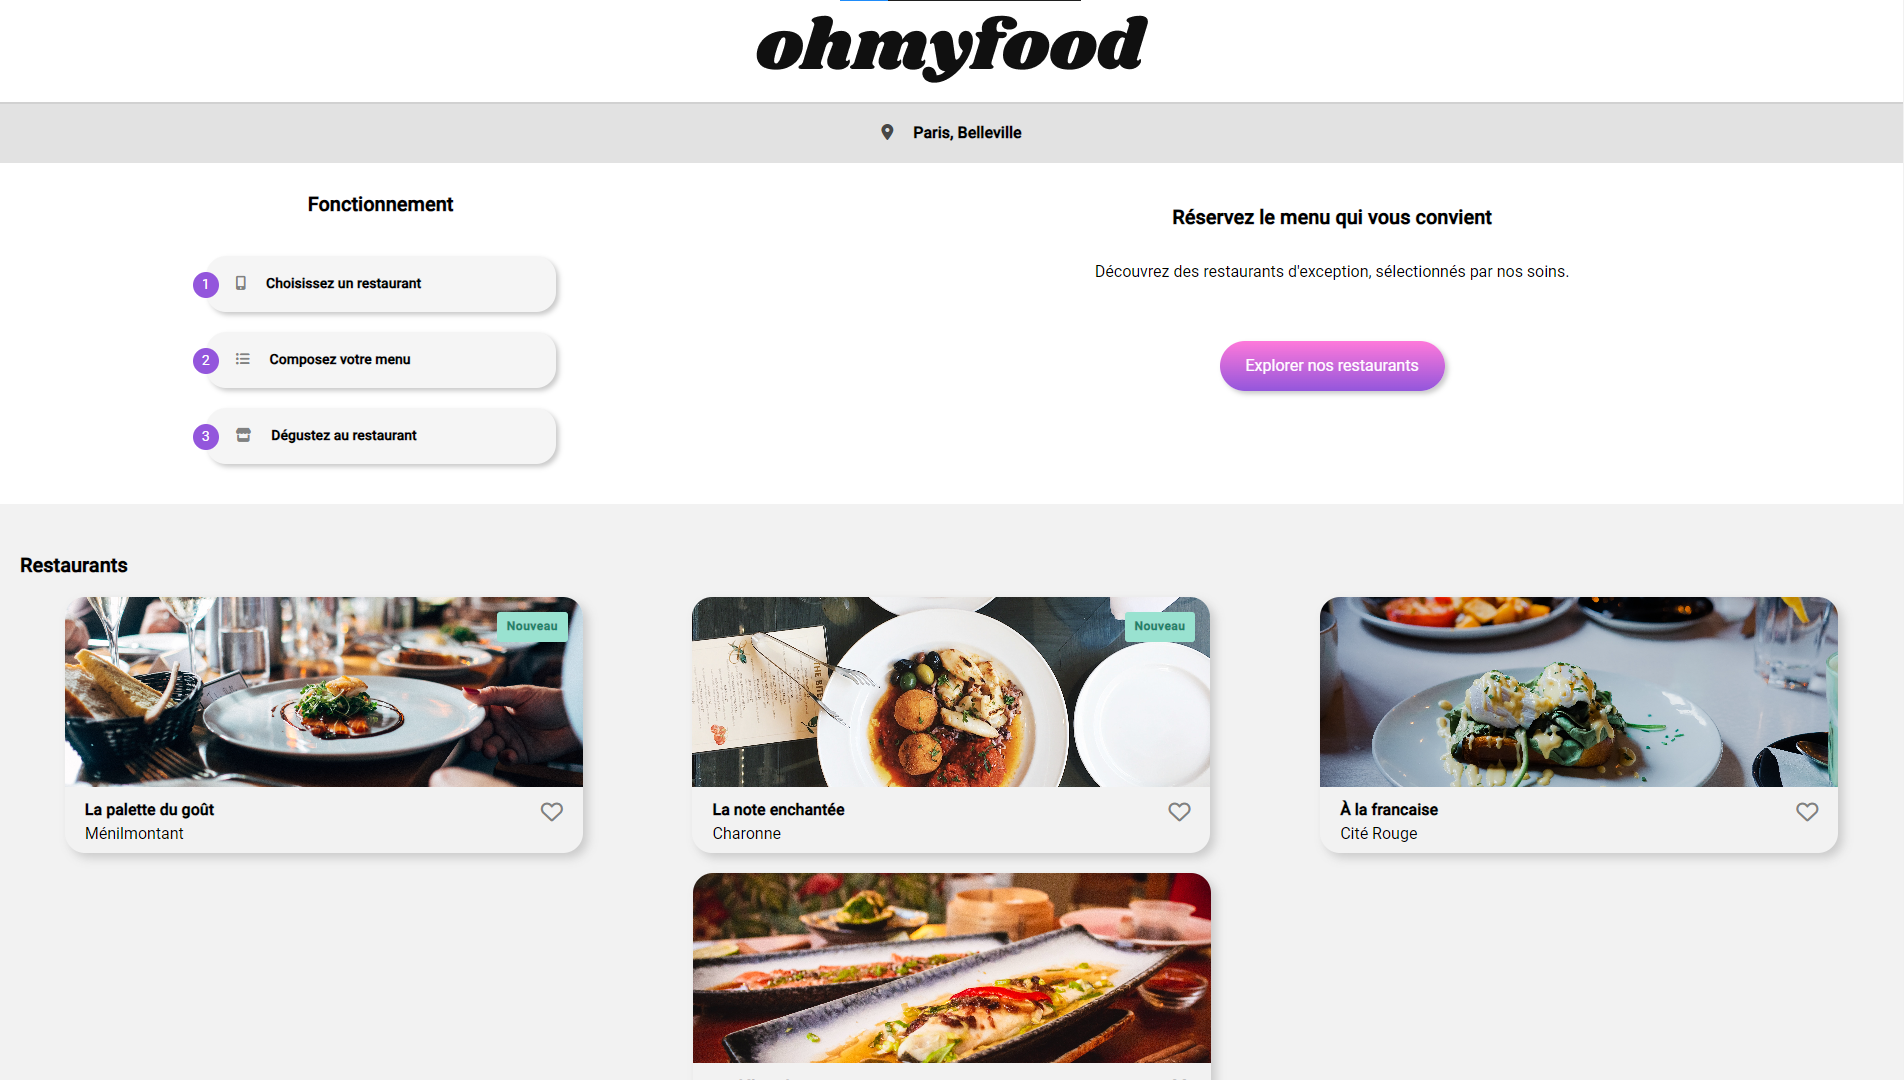
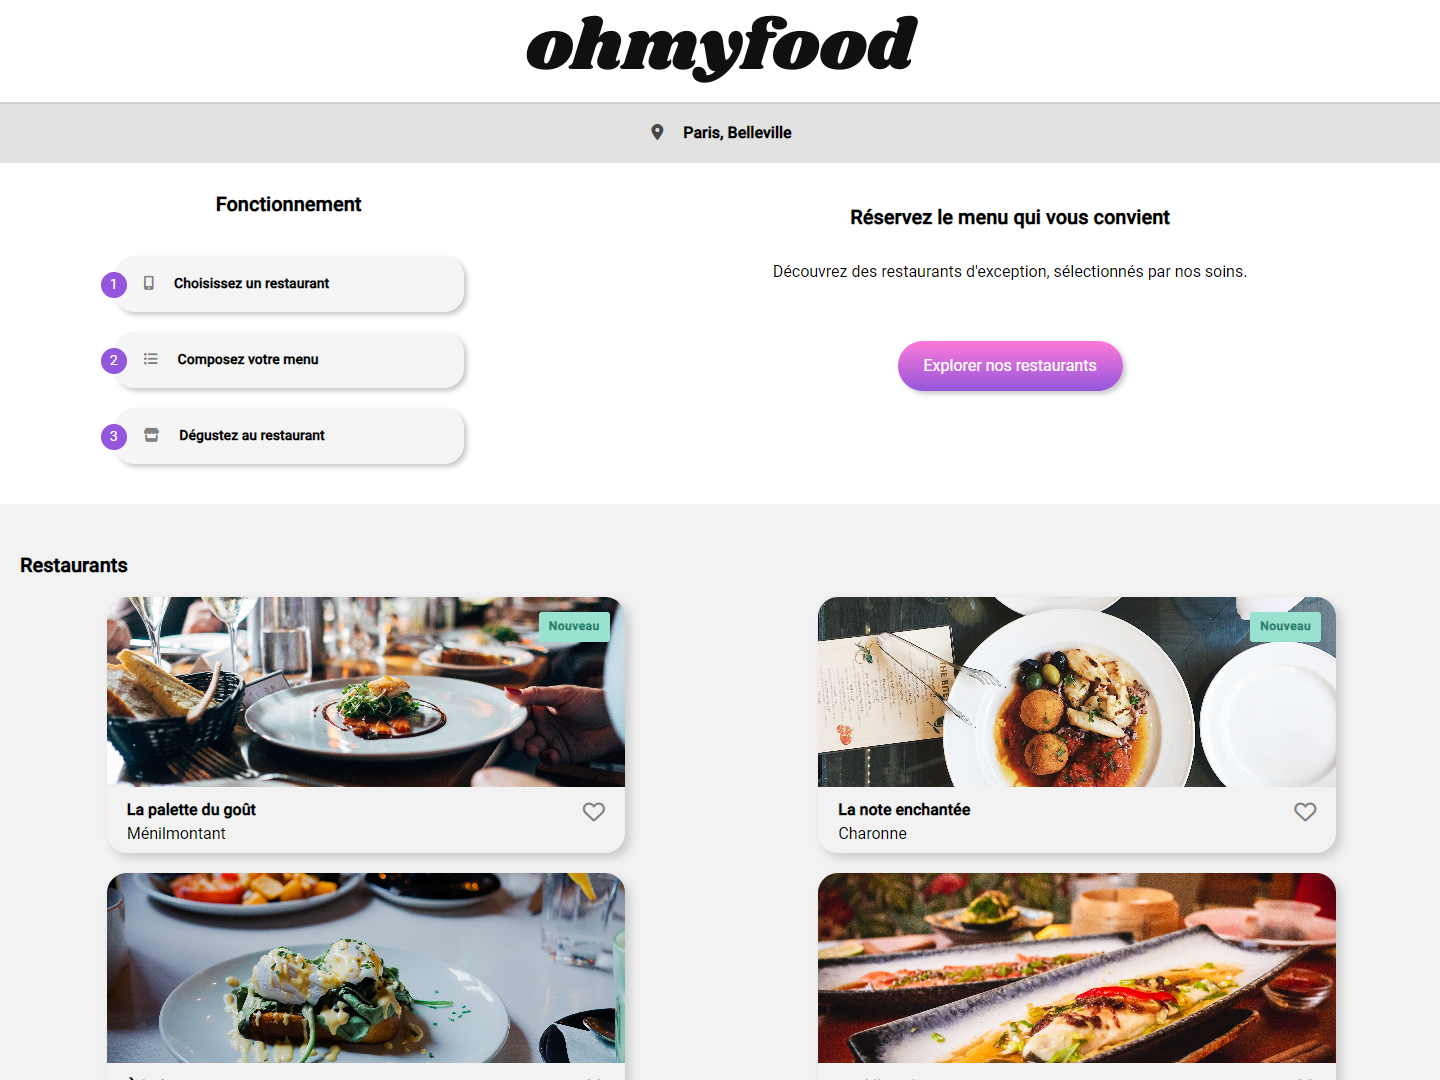
Fix:
Changement des images des card projets
Changement des images en fonction de la taille de fenetre

diff --git a/app/Components/Projets/ProjetCard.module.css b/app/Components/Projets/ProjetCard.module.css
@@ -19,6 +19,13 @@
           align-items: center;
 }
 
+.illustration {
+  object-fit: contain;
+  border-radius: var(--border--radius);
+  width: auto;
+  height: 100%;
+}
+
 .reverse {
   -webkit-box-orient: horizontal;
   -webkit-box-direction: normal;
@@ -30,7 +37,6 @@
   position: relative;
   width: 40%;
   height: 100%;
-  /* background-color: var(--background--color); */
   -webkit-box-pack: center;
       -ms-flex-pack: center;
           justify-content: center;
@@ -38,16 +44,8 @@
       -ms-flex-align: center;
           align-items: center;
   display: none;
-  /* overflow: hidden; */
+  overflow: hidden;
   border-radius: var(--border--radius);
-}
-
-.illustration {
-  border-radius: var(--border--radius);
-  width: 100%;
-  height: 100%;
-  -o-object-fit: cover;
-     object-fit: cover;
 }
 
 .project-infos {
@@ -147,6 +145,9 @@
 }
 
 @media (width >= 576px) {
+  .container {
+    height: 300px;
+  }
   .reverse {
     -webkit-box-orient: horizontal;
     -webkit-box-direction: reverse;

diff --git a/app/Components/Projets/ProjetCard.tsx b/app/Components/Projets/ProjetCard.tsx
@@ -31,16 +31,15 @@ export default function ProjetCard({ projet, nmr }: ProjetCardProps) {
           ></path>
         </svg>
       </div>
-      <figure className={styles.miniature}>
-        <source media="(min-width: 576px)" srcSet={`${projet.miniature}_medium.webp`} />
+      <picture className={styles.miniature}>
         <source media="(min-width: 992px)" srcSet={`${projet.miniature}_large.webp`} />
         <img
           className={styles.illustration}
-          src=""
+          src={`${projet.miniature}_medium.webp`}
           alt="Capture d'ecran du projet"
           loading="lazy"
         />
-      </figure>
+      </picture>
       <div className={styles["project-infos"]}>
         <h3 className={styles.title}>{projet.title}</h3>
         <p className={styles.description}>{projet.description}</p>

diff --git a/app/globals.css b/app/globals.css
@@ -78,10 +78,6 @@
   color: var(--text--color);
 }
 
-img {
-  overflow: unset;
-}
-
 a {
   text-decoration: none;
 }
